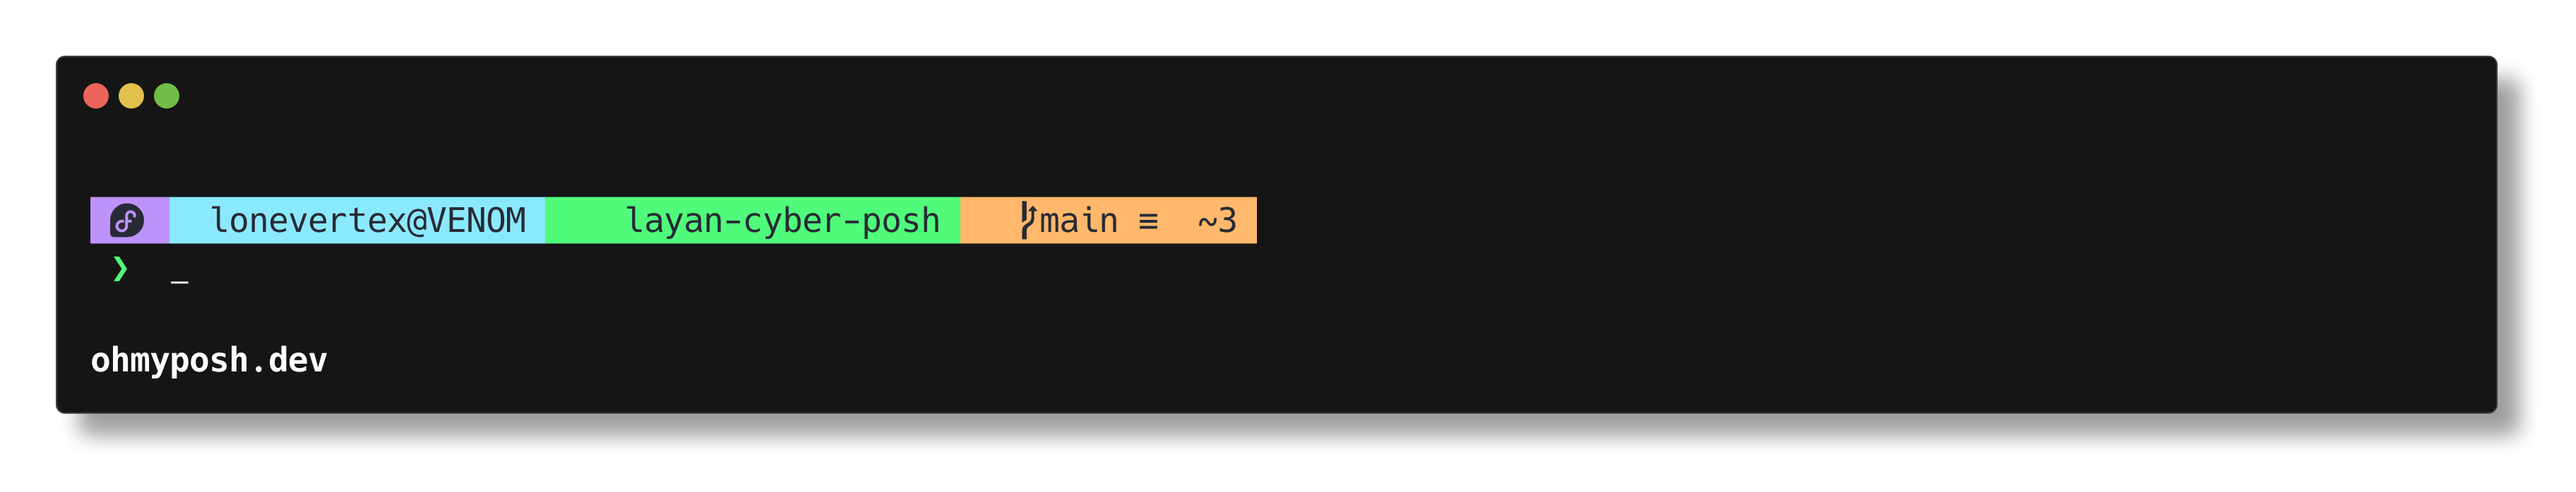
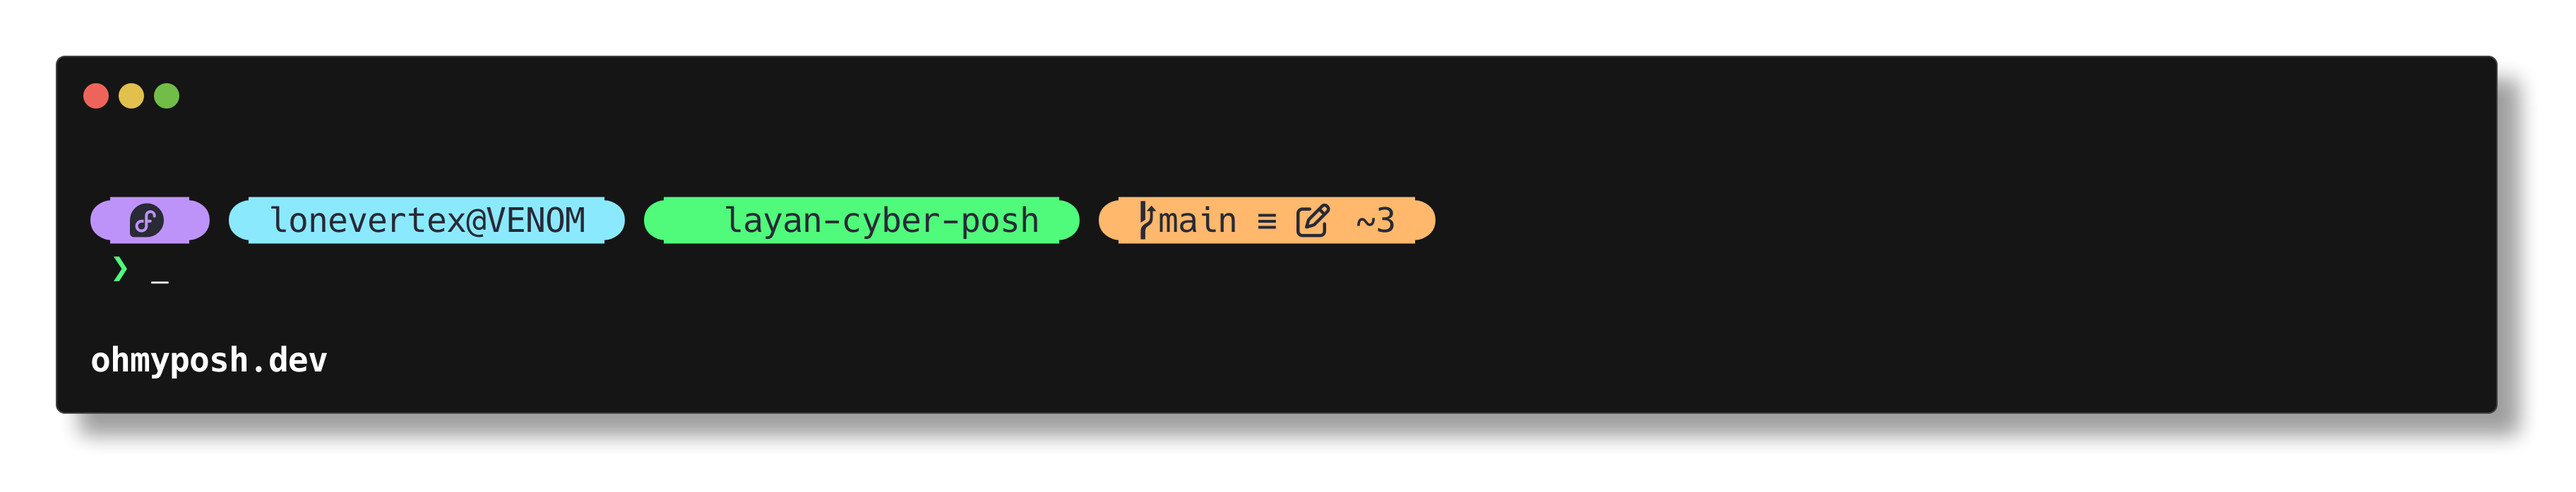
feat: restore capsule geometry, add Go/Rust runtimes, git stash, and harden installer
- Restored Powerline rounded capsule diamonds (\uE0B6 / \uE0B4) across all segments using safe TOML escapes
- Restored missing glyphs for Git edit (\uF044), staged (\uF046), Node.js (\uE718), and Python (\uE606)
- Added Go runtime segment (\uE627) and Rust runtime segment (\uE7A8) to right prompt
- Added Git stash visibility indicator (\uEB4B)
- Hardened install.sh with argument parser (--help, --uninstall, --dir) and local repository detection
- Enhanced CI with strict byte-for-byte format synchronization and installer verification
- Updated README with live CI/release badges, polyglot tooling docs, and WCAG AA contrast notes

Changed region(s): [[0.0312, 0.3911, 0.5625, 0.5115]]

diff --git a/README.md b/README.md
@@ -5,6 +5,8 @@
 ### A sleek, modern Cyberpunk & Dracula-inspired capsule theme for [Oh My Posh](https://ohmyposh.dev)
 
 [![License: MIT](https://img.shields.io/badge/License-MIT-blue.svg)](LICENSE)
+[![CI](https://github.com/LoneVertex/layan-cyber-posh/actions/workflows/validate.yml/badge.svg)](https://github.com/LoneVertex/layan-cyber-posh/actions/workflows/validate.yml)
+[![Release](https://img.shields.io/github/v/release/LoneVertex/layan-cyber-posh?color=bd93f9)](https://github.com/LoneVertex/layan-cyber-posh/releases)
 [![Oh My Posh](https://img.shields.io/badge/Oh%20My%20Posh-v3%2B-ff69b4.svg)](https://ohmyposh.dev)
 [![Shells](https://img.shields.io/badge/Shells-Bash%20|%20Zsh%20|%20Fish%20|%20PowerShell-50fa7b.svg)]()
 
@@ -21,28 +23,30 @@
 ## ✨ Features
 
 - 💊 **Floating Capsule Geometry:** Clean rounded Powerline pill caps (`` / ``) creating separate floating segments rather than connected sharp chevrons.
-- 🎨 **Cyberpunk × Dracula Palette:** Carefully balanced palette using deep slate charcoal (`#282a36`), off-white (`#f8f8f2`), and neon pastels (cyan, purple, lime green, yellow, orange, coral red).
+- 🎨 **Cyberpunk × Dracula Palette:** Carefully balanced palette using deep slate charcoal (`#282a36`), off-white (`#f8f8f2`), and neon pastels (cyan, purple, lime green, yellow, orange, coral red). Fully WCAG AA contrast compliant.
 - 🧭 **Two-Line Responsive Layout:**
   - **Upper line:** System details, active directory, git status, and right-aligned runtime versions.
   - **Lower line:** Error exit code indicator (`✗ <code>`) and clean prompt arrow (` ❯ `), giving you maximum horizontal room for long commands.
 - ⚡ **Precise Git Status Color Matrix:**
   | Git State | Background |
   |---|---|
-  | Unresolved merge conflict | 🔴 Red |
+  | Unresolved merge conflict | 🔴 Red (`Working.Unmerged > 0`) |
   | Diverged (ahead + behind) | 🔴 Red |
   | Dirty (uncommitted changes) | 🟠 Orange |
   | Behind upstream | 🟠 Orange |
   | Ahead of upstream (clean) | 🟣 Purple |
   | Clean / no remote | 🟡 Yellow |
-  - Branch name, ahead/behind counts, working tree changes (``), and staged file counts (``).
+  - Branch name, ahead/behind counts, working tree changes (``), staged file counts (``), and stash counter (``).
   - Results cached — sub-millisecond git lookups after first render.
-- 🖥 **SSH Session Indicator:** The session pill shows `` when you're connected over SSH, giving instant visual context when working on remote machines.
-- 🚀 **Smart Language & Tooling Segments (Right Prompt, hidden on narrow terminals):**
-  - **Node.js:** Activates automatically when `package.json` or JS/TS project files exist.
-  - **Python:** Displays virtual environment name when active (version lookup disabled for performance).
-  - **Execution Timer:** Displays command duration (``) when execution exceeds 2000ms.
-- 🪄 **Transient Prompt:** Collapses previous prompts into a minimalist ` ❯ ` on Enter, keeping your terminal scrollback clean. Primary and transient prompts are perfectly column-aligned — zero cursor jitter on Enter.
-- 📦 **Multi-Format:** Provided in **TOML** (canonical), **JSON**, and **YAML** — all three kept in sync and schema-validated in CI.
+- 🖥 **SSH Session Indicator:** The session pill shows `` when connected over SSH, giving instant visual context on remote machines.
+- 🚀 **Polyglot Developer Tooling (Right Prompt, hidden on narrow terminals):**
+  - **Node.js (``):** Activates automatically when `package.json` or JS/TS files exist.
+  - **Go (``):** Activates automatically when `go.mod` exists.
+  - **Rust (``):** Activates automatically when `Cargo.toml` exists.
+  - **Python (``):** Displays virtual environment name when active.
+  - **Execution Timer (``):** Displays command duration when execution exceeds 2000ms.
+- 🪄 **Transient Prompt:** Collapses previous prompts into a minimalist ` ❯ ` on Enter, keeping terminal scrollback clean. Primary line 2 and transient prompt are perfectly column-aligned — zero cursor jitter.
+- 📦 **Multi-Format:** Provided in **TOML** (canonical), **JSON**, and **YAML** — all three kept 100% in lockstep and schema-validated in CI.
 
 ---
 
@@ -53,10 +57,10 @@
 | `dark` | `#282a36` | Segment text & primary contrast foreground |
 | `light` | `#f8f8f2` | Base light text |
 | `purple` | `#bd93f9` | OS Distro pill & Git ahead state |
-| `cyan` | `#8be9fd` | User & host session pill |
-| `green` | `#50fa7b` | Current directory path pill & prompt pointer |
-| `yellow` | `#f1fa8c` | Clean Git state & execution time pill |
-| `orange` | `#ffb86c` | Dirty / behind Git status |
+| `cyan` | `#8be9fd` | User & host session pill & Go runtime |
+| `green` | `#50fa7b` | Current directory path pill, Node runtime & prompt pointer |
+| `yellow` | `#f1fa8c` | Clean Git state, Python venv & execution time pill |
+| `orange` | `#ffb86c` | Dirty / behind Git status & Rust runtime |
 | `red` | `#ff5555` | Root session, diverged Git state & non-zero exit codes |
 | `grey` | `#44475a` | Language runtime segment backgrounds |
 | `pink` | `#ff79c6` | Accent highlights |
@@ -71,7 +75,7 @@
    curl -s https://ohmyposh.dev/install.sh | bash -s
    ```
 2. **A [Nerd Font v3+](https://www.nerdfonts.com/)** installed and configured in your terminal emulator.  
-   **Version 3 is required** — the theme uses `` (SSH indicator) and other v3-only glyphs.  
+   **Version 3 is required** — the theme uses `` (SSH indicator), `` (stash), and modern runtime glyphs.  
    Recommended: *JetBrainsMono Nerd Font*, *FiraCode Nerd Font*, *MesloLGS NF*, or *Cascadia Code NF*.
 
 ---
@@ -86,6 +90,13 @@ Run the remote installer directly:
 curl -fsSL https://raw.githubusercontent.com/LoneVertex/layan-cyber-posh/main/install.sh | sh
 ```
 
+The installer also supports flags when run locally or saved:
+```bash
+./install.sh --help         # Show options
+./install.sh --dir /path    # Install to custom directory
+./install.sh --uninstall    # Remove installed theme files
+```
+
 ### Option 2: Direct URL (No Local Files Needed)
 
 You can load the theme directly from GitHub without downloading or cloning:
@@ -98,8 +109,8 @@ eval "$(oh-my-posh init bash --config https://raw.githubusercontent.com/LoneVert
 
 ```bash
 git clone https://github.com/LoneVertex/layan-cyber-posh.git
-mkdir -p ~/.config/oh-my-posh/themes
-cp layan-cyber-posh/themes/layan-cyber.omp.* ~/.config/oh-my-posh/themes/
+cd layan-cyber-posh
+./install.sh
 ```
 
 ---
@@ -146,7 +157,7 @@ if (Get-Command oh-my-posh -ErrorAction SilentlyContinue) {
 | **JSON** | [`themes/layan-cyber.omp.json`](themes/layan-cyber.omp.json) |
 | **YAML** | [`themes/layan-cyber.omp.yaml`](themes/layan-cyber.omp.yaml) |
 
-All three formats are identical in structure and behavior.
+All three formats are identical in structure, synchronized byte-for-byte in CI, and validated against the official Oh My Posh JSON schema.
 
 ---
 

diff --git a/CHANGELOG.md b/CHANGELOG.md
@@ -5,6 +5,22 @@ All notable changes to this project will be documented in this file.
 The format is based on [Keep a Changelog](https://keepachangelog.com/en/1.1.0/),
 and this project adheres to [Semantic Versioning](https://semver.org/spec/v2.0.0.html).
 
+## [1.2.0] - 2026-09-06
+
+### Fixed
+- **Capsule Geometry & Diamond Restoration:** Restored `leading_diamond = "\uE0B6"` and `trailing_diamond = "\uE0B4 "` across all segments using safe TOML unicode escape sequences, preventing heredoc byte stripping and restoring the theme's signature rounded capsule/pill aesthetic.
+- **Icon Encoding Integrity:** Restored `\uF044` (git edit), `\uF046` (git staged), `\uE718` (Node.js), and `\uE606` (Python) glyphs with explicit TOML unicode escapes.
+- **Installer CLI Parsing:** Fixed `install.sh` crash when passed `--help` or `-h`. Added clean argument parsing for `--help`, `--uninstall` (`-u`), and `--dir` (`-d`).
+- **Installer Offline Support:** `install.sh` now auto-detects if it is being executed inside a cloned git repository and copies theme files locally without making redundant network requests.
+
+### Added
+- **Go Runtime Segment:** Right prompt now automatically displays the Go runtime pill (`\uE627` ``) in cyan when `go.mod` exists.
+- **Rust Runtime Segment:** Right prompt now automatically displays the Rust runtime pill (`\uE7A8` ``) in orange when `Cargo.toml` exists.
+- **Git Stash Visibility:** Git segment now detects and displays active stashes (`\uEB4B` ` <count>`).
+- **Strict Format Synchronization Gate:** GitHub Actions CI now enforces byte-for-byte synchronization between `layan-cyber.omp.toml`, `layan-cyber.omp.json`, and `layan-cyber.omp.yaml` via automated `diff -u`.
+- **Installer Syntax Gate:** GitHub Actions CI now runs `sh -n install.sh` and `--help` verification.
+- **Dynamic Badges:** Added live GitHub Actions CI status and GitHub Release version badges to `README.md`.
+
 ## [1.1.0] - 2026-09-06
 
 ### Fixed
